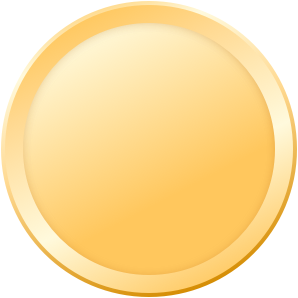
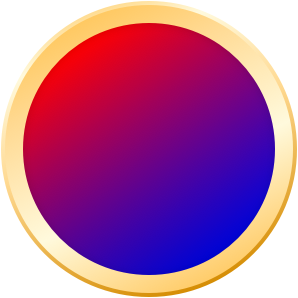
feat(): update coin

diff --git a/src/games/LuckyCoinFlip/LuckyCoinFlipResult/LuckyCoinFlipResult.tsx b/src/games/LuckyCoinFlip/LuckyCoinFlipResult/LuckyCoinFlipResult.tsx
@@ -1,15 +1,21 @@
 import { useEffect } from 'react';
 import { useSpringValue, animated, to, config } from '@react-spring/web';
 import { Layout } from '@/components/Layout';
+import { getRandomInt, randomOption } from '@/utils/random';
 import { LuckyCoin, shadowColor } from '../LuckyCoin/LuckyCoin';
 import classes from './LuckyCoinFlipResult.module.scss';
 
+const variants = ['red', 'blue', 'result'] as const;
+
 export interface LuckyCoinFlipResultProps {
-  value: string;
-  variant: 'red' | 'blue' | 'gold';
+  value?: string;
+  variant?: typeof variants[number];
 }
 
-export function LuckyCoinFlipResult({ value, variant }: LuckyCoinFlipResultProps) {
+export function LuckyCoinFlipResult({
+  value = getRandomInt(2, 200).toString(),
+  variant = randomOption(variants)
+}: LuckyCoinFlipResultProps) {
   const scale = useSpringValue(0, { config: config.slow });
 
   useEffect(() => {
@@ -21,7 +27,7 @@ export function LuckyCoinFlipResult({ value, variant }: LuckyCoinFlipResultProps
       <div className={classes.root}>
         <animated.div
           className={classes.coin}
-          style={{ scale, opacity: scale, boxShadow: to(scale, n => `0px 0px ${n * 30}px ${shadowColor}`) }}
+          style={{ scale, opacity: scale, boxShadow: to(scale, n => `0px 0px ${n * 40}px ${shadowColor}`) }}
         >
           <LuckyCoin value={value} variant={variant} />
         </animated.div>

diff --git a/src/games/LuckyCoinFlip/LuckyCoinMultiplier/LuckyCoinMultiplier.tsx b/src/games/LuckyCoinFlip/LuckyCoinMultiplier/LuckyCoinMultiplier.tsx
@@ -3,7 +3,7 @@ import _classes from './LuckyCoinMultiplier.module.scss';
 
 export interface MultiplierProps extends React.ComponentProps<'div'> {
   value: string;
-  variant: 'red' | 'blue' | 'gold' | 'plain';
+  variant: 'red' | 'blue' | 'result' | 'plain';
   blur?: boolean;
   classes?: { symbol?: string; number?: string; blur?: string };
 }
@@ -15,7 +15,7 @@ export function LuckyCoinMultiplier({ value, variant, className = '', classes = 
         ? blur
           ? `text_onscreen_multipliers_blurred/txt_multipliers_blurred_${n}.png`
           : `text_onscreen_multipliers_plain/txt_multipliers_still_${n}.png`
-        : variant === 'gold'
+        : variant === 'result'
         ? `text_coin_winner/txt_winner_coin_${n}.png`
         : `text_coin_${variant}/txt_${variant}_coin_${n}.png`;
     return require(`@/assets/${image}`);

diff --git a/src/games/LuckyCoinFlip/LuckyCoin/LuckyCoin.tsx b/src/games/LuckyCoinFlip/LuckyCoin/LuckyCoin.tsx
@@ -4,14 +4,14 @@ import classes from './LuckyCoin.module.scss';
 
 export interface LuckyCoinProps extends React.ComponentProps<'div'> {
   value: string;
-  variant: 'red' | 'blue' | 'gold';
+  variant: 'red' | 'blue' | 'result';
   glow?: boolean;
 }
 
 export const shadowColor = classes['shadowColor'];
 
 export function LuckyCoin({ value, variant, glow, className = '', ...divProps }: LuckyCoinProps) {
-  const backgroundImage = variant === 'gold' ? 'bg_coin_winner_large' : `bg_coin_${variant}_screen`;
+  const backgroundImage = variant === 'result' ? 'bg_coin_winner_large' : `bg_coin_${variant}_screen`;
 
   return (
     <div {...divProps} className={cx(classes.root, glow && classes.glow, className)}>

diff --git a/src/games/LuckyCoinFlip/LuckyCoin/LuckyCoin.module.scss b/src/games/LuckyCoinFlip/LuckyCoin/LuckyCoin.module.scss
@@ -13,10 +13,19 @@ $shadowColor: #ffcd6f;
   transition: 0.3s;
 
   &.glow {
-    box-shadow: 0 0 30px $shadowColor;
+    &::before {
+      content: '';
+      $size: 125%;
+      width: $size;
+      height: $size;
+      background-size: contain;
+      background-image: url('../../../assets/misc_coin_glow.png');
+      @include abs-center;
+    }
   }
 
   > img {
+    position: relative;
     width: 100%;
   }
 }

diff --git a/src/games/LuckyCoinFlip/LuckyCoinDisplay.tsx b/src/games/LuckyCoinFlip/LuckyCoinDisplay.tsx
@@ -1,7 +1,7 @@
 import { Layout } from '@/components/Layout';
 import { LuckyCoin, LuckyCoinProps } from './LuckyCoin/LuckyCoin';
 
-const coins = ['red', 'blue', 'gold'].flatMap((v, i) =>
+const coins = ['red', 'blue', 'result'].flatMap((v, i) =>
   [1, 4, 16, 32, 100].map<LuckyCoinProps>(m => {
     return { variant: v as LuckyCoinProps['variant'], value: '' + m * (i + 1) };
   })

diff --git a/src/games/LuckyCoinFlip/LuckyCoinFlip.tsx b/src/games/LuckyCoinFlip/LuckyCoinFlip.tsx
@@ -38,7 +38,7 @@ export function LuckyCoinFlip() {
 
     if (step === steps.Result) {
       return {
-        children: <LuckyCoinFlipResult variant="red" value={'' + (Math.round(Math.random() * 200) + 2)} key={key} />,
+        children: <LuckyCoinFlipResult key={key} />,
         actions: [{ text: 'Replay', onClick: () => setKey(k => k + 1) }]
       };
     }

diff --git a/src/utils/random.ts b/src/utils/random.ts
@@ -1,0 +1,10 @@
+// The maximum is inclusive and the minimum is inclusive
+export function getRandomInt(min: number, max: number) {
+  min = Math.ceil(min);
+  max = Math.floor(max);
+  return Math.floor(Math.random() * (max - min + 1) + min);
+}
+
+export function randomOption<T>(arr: T[] | readonly T[]) {
+  return arr[getRandomInt(0, arr.length - 1)];
+}
